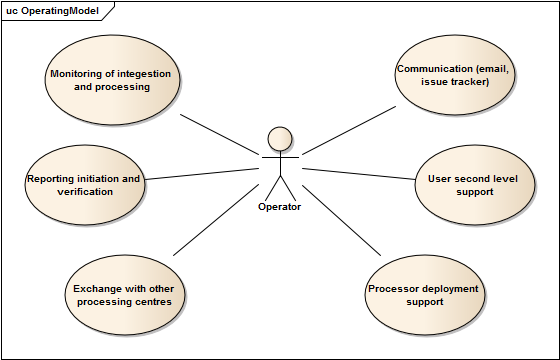
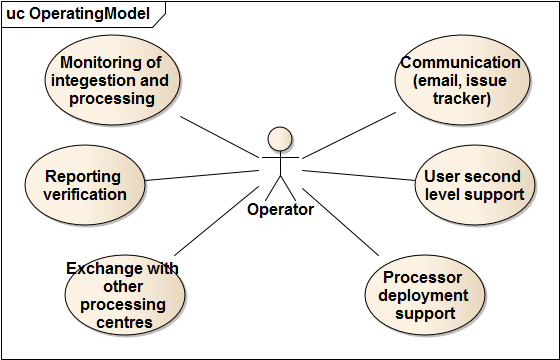
work on RID list regarding processing centre aspects finished

diff --git a/source/architecture/bc-pc/ProcessingandIngestionControl.rst b/source/architecture/bc-pc/ProcessingandIngestionControl.rst
@@ -26,7 +26,7 @@ BC Processing and ingestion control
 .. req:: TS-FUN-710
   :show:
 
-  (Processing statistics) Processing and Ingestion Control provides scripts for processing report generation and to transfer them to teh Reporting component of the Portal. Report generation is done operator-controlled.
+  (Processing statistics) Processing and Ingestion Control generates processing reports and to transfer them to the Reporting component of the Portal.
 
 .. req:: TS-RES-630
   :show:
@@ -36,12 +36,12 @@ BC Processing and ingestion control
 .. req:: TS-ICD-350
   :show:
 
-  (Resource utilization reporting interface) Processing and Ingestion Control provides scripts for processing report generation and to transfer them to teh Reporting component of the Portal. Report generation is done operator-controlled.
+  (Resource utilization reporting interface) Processing and Ingestion Control provides scripts for processing report generation and to transfer them to the Reporting component of the Portal.
 
 .. req:: TS-ICD-080
   :show:
 
-  (Accounting collection API) Processing and Ingestion Control provides scripts for processing report generation and to transfer them to teh Reporting component of the Portal. Report generation is done operator-controlled.
+  (Accounting collection API) Processing and Ingestion Control provides scripts for processing report generation and to transfer them to the Reporting component of the Portal.
 
 .. req:: TS-ICD-090
   :show:
@@ -61,7 +61,7 @@ The implementation of the Processing and Ingestion Control component is based on
 
 The configuration specific to Urban TEP comprises:
 
- * an ingestion system instance ing-inst with one script for each data source (e.g. for systematic Sentinel 2 ingestion for the Urban TEP initial cities)
+ * an ingestion system instance ing-inst with one script for each data source (e.g. for systematic Sentinel 2 ingestion for the Urban TEP initial cities (mirroring), or for on-demand ingestion of a dataset (caching))
  * a processing system instance urban-inst with one script for each bulk production workflow (e.g. one for the statistics generation from MERIS data), and specific configurations for the spatio-temporal extent to be processed
  * scripts for catalogue entry generation and report generation and submission
 
@@ -70,7 +70,7 @@ State representation and persistent data
 
 The state of processing system instances is kept in report files automatically generated:
 
- * ingestion reports lists all files ingested so far to avoid duplicate transfers.
+ * ingestion reports lists all files systematically ingested so far to avoid duplicate transfers.
  * processing system instance reports lists all requests processed for systematic processing and for bulk production. This allows for recovery from failure and resume after interruption.
 
 In addition ingestion as well as processing change the state of HDFS EO Data and Processing Storage.
@@ -85,7 +85,7 @@ The computational service of this component is:
  * to control bulk production, i.e. to submit all requests required to fulfil a larger processing task, with configured concurrency
  * to recover from errors and resume production, retrying the failed step
  * to publish results by placing them in the staging area of Online Data Access and by providing a catalogue entry to the Portal Catalogue.
- * to generate processing reports with information on users and used resources, such as CPU hours, input data size, and storage capacity
+ * to generate and upload processing reports with information on users and used resources, such as CPU hours, input data size, and storage capacity
 
 The processing itself is performed by YARN Scheduling and Processing.
 
@@ -95,7 +95,6 @@ Interfaces and interface items
 The interfaces provided by this component are:
 
  * the scripting interface to control ingestion, systematic processing, and bulk production
- * the scripting interface for catalogue entry generation for new datasets and for reporting on processing activities
 
 The interfaces used by the component are:
 

diff --git a/source/introduction/changelog.rst b/source/introduction/changelog.rst
@@ -16,7 +16,7 @@ Change Log
 |         |            | Section :ref:`flows` added to for outlining Urban-TEP specific interaction                  |
 |         |            | between components [RID PRE_REVIEW-04]                                                      |
 +---------+------------+---------------------------------------------------------------------------------------------+
-|         |            | Individual class diagram removed for better readibility [RID PRE_REVIEW-05]                 |
+|         |            | Individual class diagram removed for better readability [RID PRE_REVIEW-05]                 |
 +---------+------------+---------------------------------------------------------------------------------------------+
 |         |            | More details on PUMA integration for data visualization is given in :ref:`static_overview`, |
 |         |            | :ref:`puma` and :ref:`flows`. [RID PRE_REVIEW-07 and 10]                                    |
@@ -29,9 +29,9 @@ Change Log
 |         |            | [RID SP-54] [RID SP-56] [RID SP-57] [RID SP-58] [RID SP-59] [RID SP-61]                     |
 +---------+------------+---------------------------------------------------------------------------------------------+
 |         |            | Document restructuration : section :ref:`static_architecture` [RID AM-31]                   |
-|         |            | [RID SP-62] [RID AM-41] [RID AM-43] [RID AM-44] [RID AM-52] [RID SP-52]                     |
+|         |            | [RID SP-62] [RID AM-57] [RID AM-41] [RID AM-43] [RID AM-44] [RID AM-52] [RID SP-52]         |
 +---------+------------+---------------------------------------------------------------------------------------------+
-|         |            | Document restructuration : section :ref:`dynamic_architecture` [RID AM-53]                  |
+|         |            | Document restructuration : section :ref:`dynamic_architecture` [RID AM-53] [RID SP-84]      |
 +---------+------------+---------------------------------------------------------------------------------------------+
 |         |            | :ref:`business_objects` section reduced and refocused on its purpose [RID AM-45]            |
 +---------+------------+---------------------------------------------------------------------------------------------+
@@ -51,5 +51,11 @@ Change Log
 |         |            | Development environment added to the design, new processor deployment updated and           |
 |         |            | integrated into processing centre infrastructures (sections :ref:`approach`,                |
 |         |            | :ref:`bcpc_components_list`, :ref:`it4ipc_components_list`, :ref:`dlrpc_components_list`,   |
-|         |            | :ref:`develenv_processor_development_environment`, :ref:`design_uc03`) [RID AM-15]          |
+|         |            | :ref:`develenv_processor_development_environment`, :ref:`design_uc03`) [RIDs AM-15]         |
+|         |            | [RID AM-33] [RID AM-46] [RID AM-47] [RID-SP-85]                                             |
++---------+------------+---------------------------------------------------------------------------------------------+
+|         |            | Processing centre design updated: functions of operating [RID AM-60], data access via       |
+|         |            | portal [RID SP-73], on-demand ingestion (caching in addition to mirroring) [RID SP-74],     |
+|         |            | user management and authentication [RID SP-75], examples shortened and moved to annex       |
+|         |            | [RID AM-57] [RID SP-76], automated reporting [RID SP-78]                                    |
 +---------+------------+---------------------------------------------------------------------------------------------+

diff --git a/source/architecture/bc-pc/Operating.rst b/source/architecture/bc-pc/Operating.rst
@@ -42,7 +42,7 @@ BC Urban TEP Operating
 .. req:: TS-FUN-710
   :show:
 
-  (Processing statistics) Operating initiates and verifies the report generated with the Urban TEP Processing and Ingestion Control.
+  (Processing statistics) Operating verifies the report generated with the Urban TEP Processing and Ingestion Control.
 
 .. req:: TS-FUN-720
   :show:
@@ -72,7 +72,7 @@ BC Urban TEP Operating
 .. req:: TS-ICD-350
   :show:
 
-  (Resource utilization reporting interface) Operating initiates and verifies report generated by Ingestion and Processing Control.
+  (Resource utilization reporting interface) Operating verifies report generated and uploaded by Ingestion and Processing Control.
 
 .. req:: TS-ICD-090
   :show:
@@ -83,6 +83,8 @@ BC Urban TEP Operating
   :show:	
 
   (Issue Tracking web widget) Urban TEP Processing Centre Operating regularily handles issues assigned to the BC processing centre in the Portal Issue Tracking system. 
+
+Operating is considered as a component here in order to allocate functions to it. It will be an operator that performs these functions with the help of common tools like browsers, viewers, editors, shells.
 
 .. figure:: OperatingModel.png
    :scale: 80
@@ -119,7 +121,7 @@ Activities of the Operator comprise:
  * support of well-known users for the integration and upload of processors (and reference datasets if necessary)
  * communication with the Portal Operating and with Operating of the other processing centres, exchange of datasets and processors
  * initiation and configuration for bulk processing in case of the systematic generation of a new product in the Urban TEP
- * initiation of reporting, verification of reports
+ * verification of reports
  * data management, initiation of cleanup of old results
 
 Interfaces and interface items

diff --git a/source/architecture/devel-env/index.rst b/source/architecture/devel-env/index.rst
@@ -22,6 +22,8 @@ The following figure depicts the approach.
 
    *Urban TEP development environment and processor deployment in a processing centre*
 
+As there are three processing centres with partially different input datasets and capacities the Urban TEP governance may decide for a user which processing centre to use for which type of application.
+
 Virtual machine image for instantiation or download
 ---------------------------------------------------
 The processor development enviromnent (Sandbox) will be provided by the IT4I processing centre as a virtual machine, either as an VM image to be downloaded by the user for local development, or hosted on the IT4I processing infrastructure for remote development. When the user requests a creation of the Sandbox through the Portal, new instance of the virtual machine is created from the baseline running on a CentOS Linux 6 operating system and containing additional tools and data sets described in section :ref:`develenv_tools_datasets`.

diff --git a/source/architecture/bc-pc/index.rst b/source/architecture/bc-pc/index.rst
@@ -35,7 +35,7 @@ Before describing the components the main functions with their initiation and wo
      - the *Processing and Ingestion Control* for catalogue entry generation
  * to ingest input data
      - the *Operator* to monitor ingestion
-     - the *Processing and Ingestion Control* for configuration and systematic or one-time ingestion of data from external data providers using their interfaces
+     - the *Processing and Ingestion Control* for configuration and systematic (mirroring) or one-time ingestion (caching) of data from external data providers using their interfaces
  * to upload reference data
      - the *Processing Gateway/WPS* with a REST-ful interface for reference data upload
      - the *HDFS EO Data and Processing Storage* for storage of the reference data in a user-specific space

diff --git a/source/design/UC02.rst b/source/design/UC02.rst
@@ -61,7 +61,7 @@ Next figure depicts the sequence that consists of requesting a processing on dem
 
 .. warning:: 
   
-  This scenario illustration does not take into account the quota and credit management on purpose for readibility reason. All details about accounting operations that may apply to this scenario are described in the :ref:`dynamic_accounting` section.
+  This scenario illustration does not take into account the quota and credit management on purpose for readability reason. All details about accounting operations that may apply to this scenario are described in the :ref:`dynamic_accounting` section.
 
 
 

diff --git a/source/architecture/bc-pc/BCUserManagement.rst b/source/architecture/bc-pc/BCUserManagement.rst
@@ -54,6 +54,8 @@ BC user management
 
    *User Management component*
 
+While Urban TEP users are authenticated by the portal via SSO, it has to be made sure that the requests submitted on behalf of them to a processing centre really stem from the portal. This is verified by the BC user management. Nevertheless, requests from the portal contain in their payload data the user information of the external user as well. This user information is required by reporting and other functions.
+
 Implementation software and configuration
 -----------------------------------------
 

diff --git a/source/integration/wps_xml.rst b/source/integration/wps_xml.rst
@@ -22,7 +22,7 @@ Execute request
    :language: xml
 
 .. warning::
-	The XML above does not represent a complete and valid Execute request to BC WPS. Some parts have been omitted for a better readibility.
+	The XML above does not represent a complete and valid Execute request to BC WPS. Some parts have been omitted for a better readability.
 
 Execute response
 ~~~~~~~~~~~~~~~~
